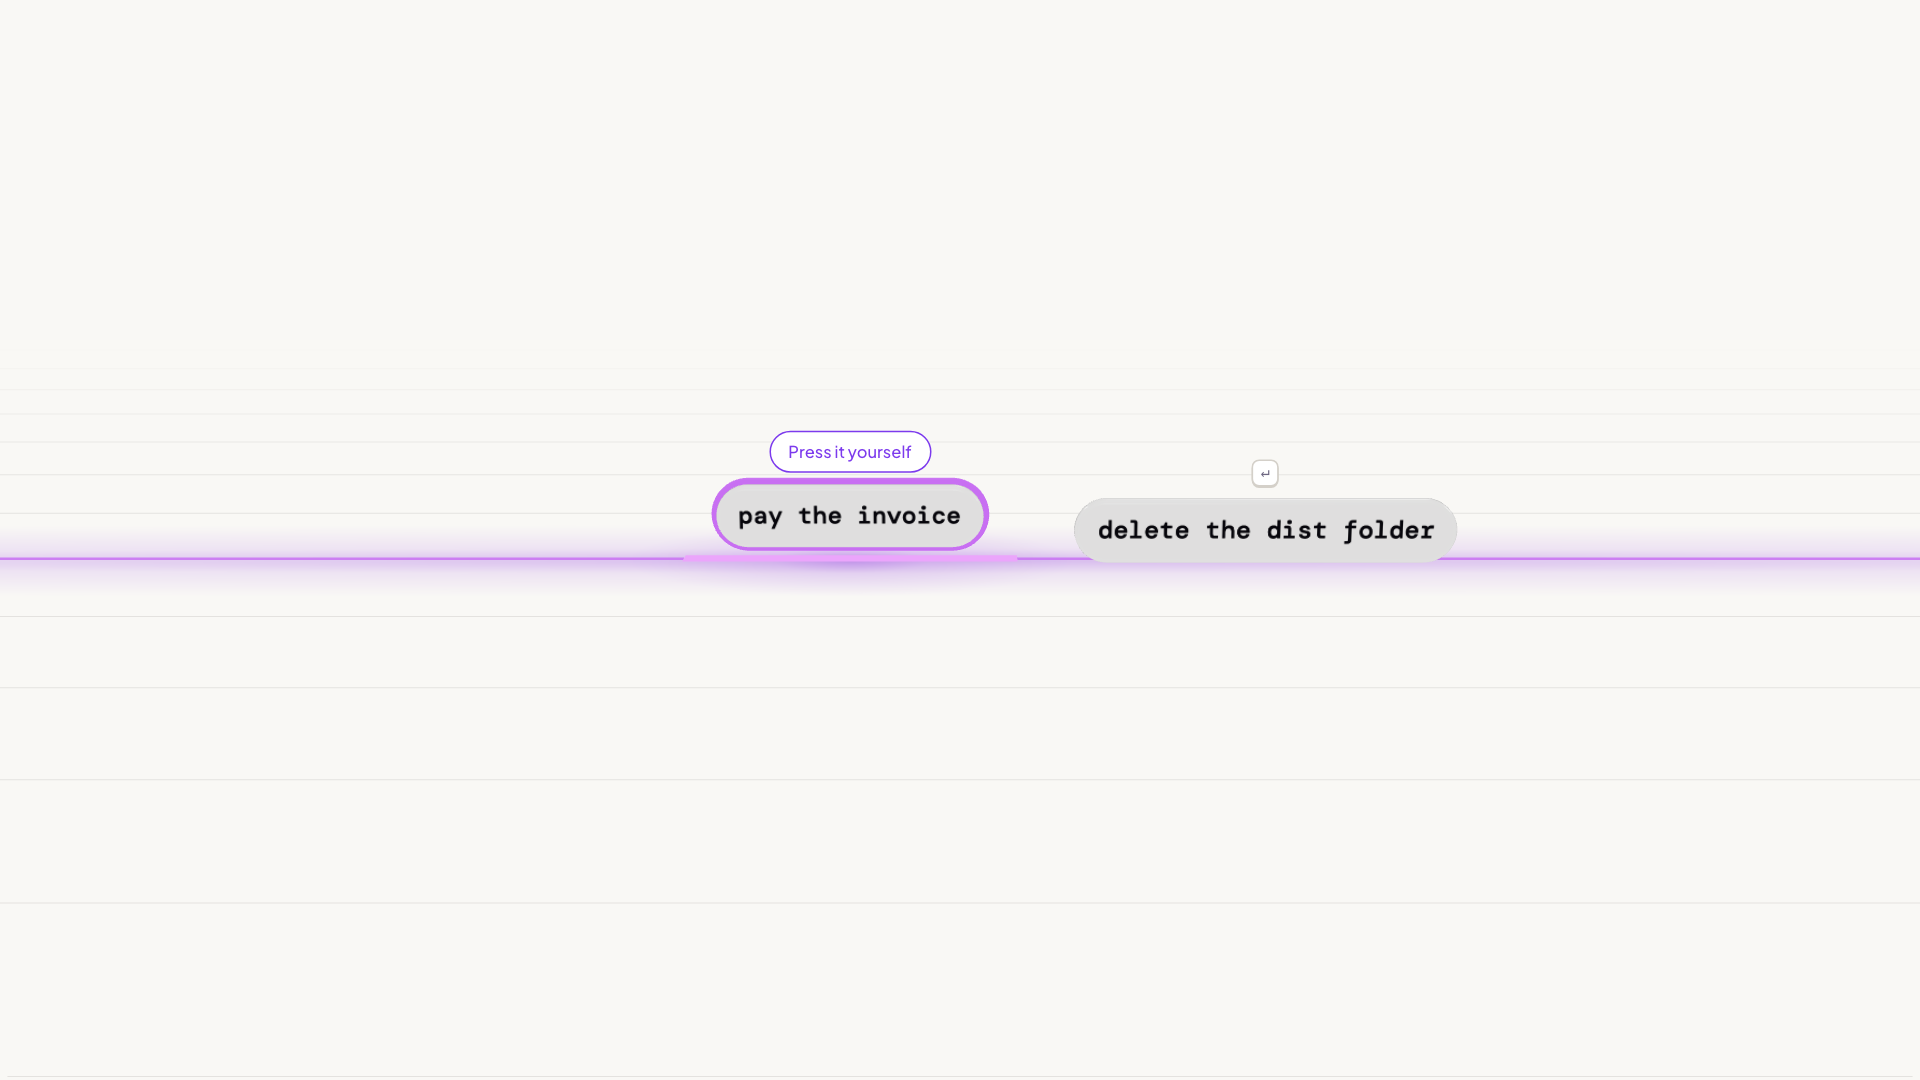
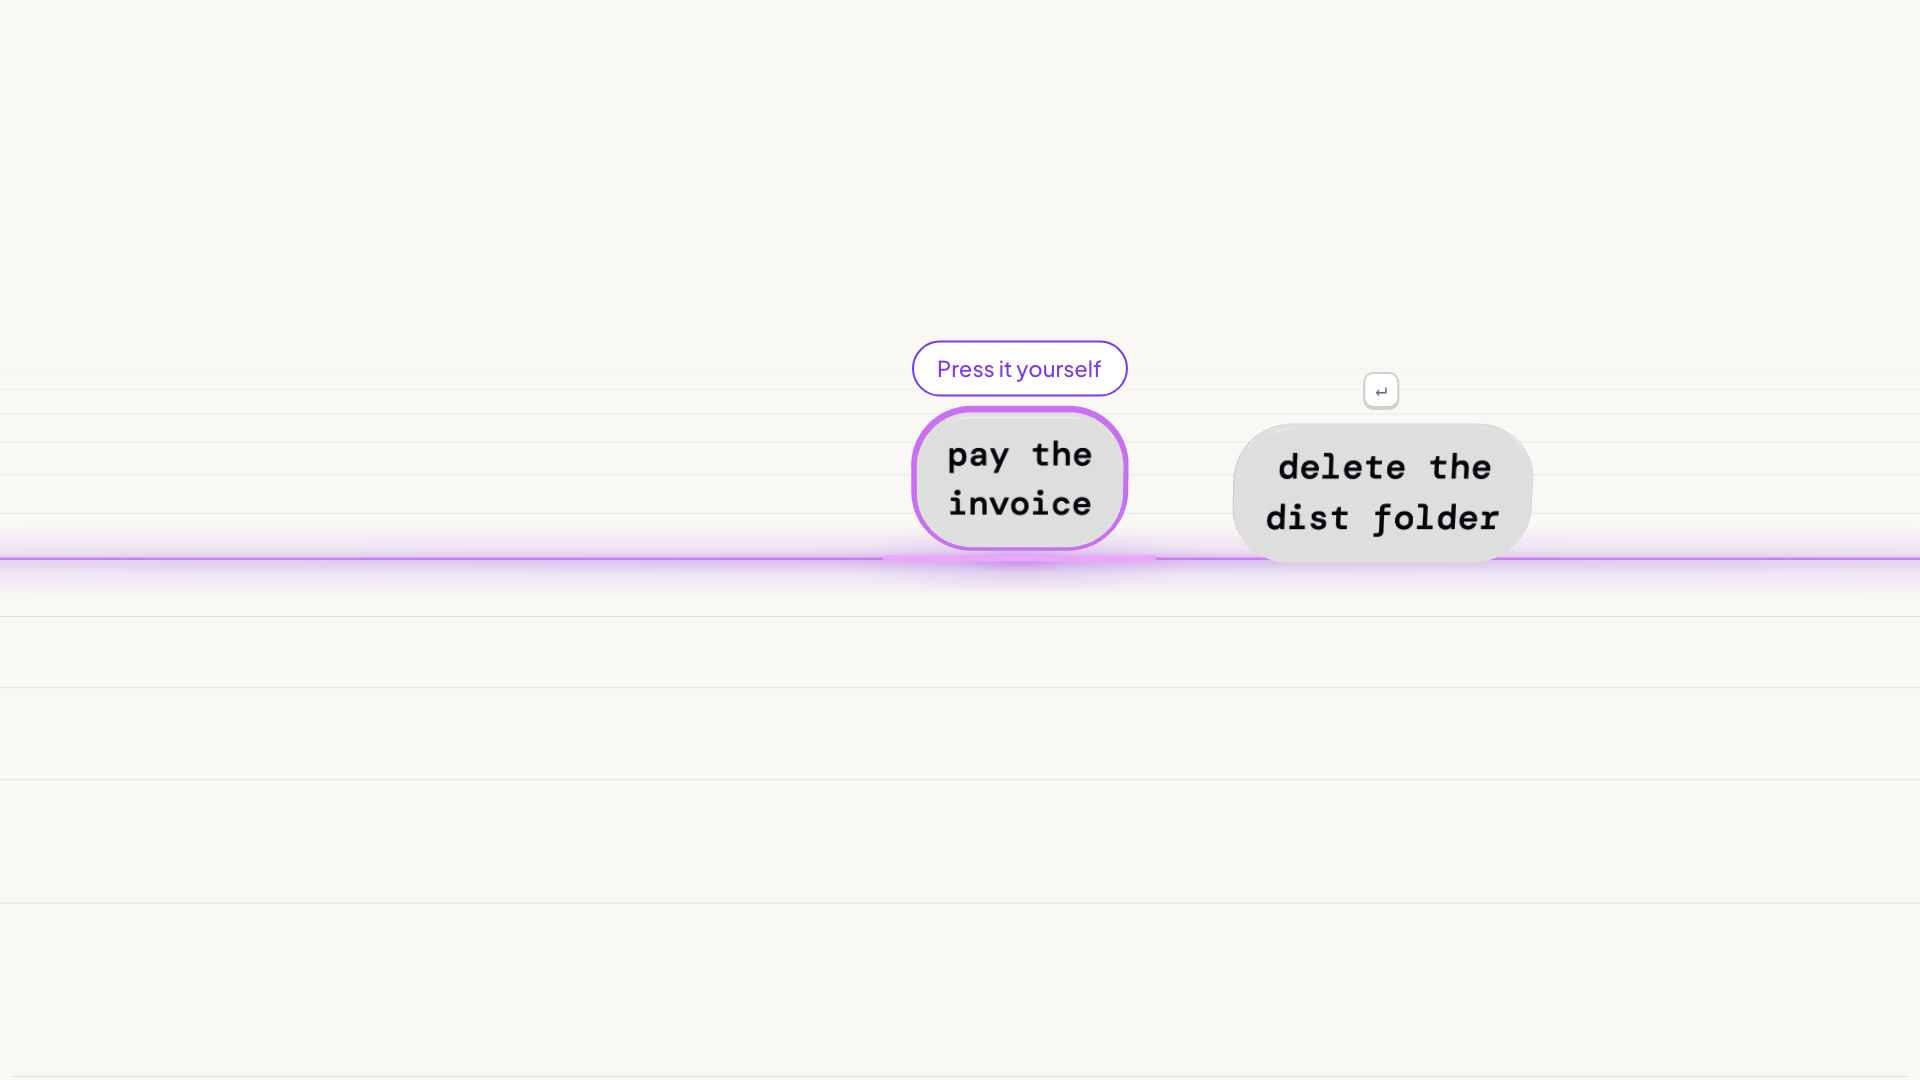
fix(stage): line posters re-rendered on the new lanes, the phone one at the 390 and 393 stage

Changed region(s): [[0.3438, 0.3361, 0.8125, 0.55]]

diff --git a/app/components/stage/poster.vue b/app/components/stage/poster.vue
@@ -11,7 +11,7 @@ type Size = { width: number; height: number };
 const RENDERED: Record<PosterName, Size & { mobile?: Size & { below: number } }> = {
   hero: { width: 1920, height: 1080, mobile: { width: 1920, height: 1080, below: 1024 } },
   lost: { width: 1920, height: 1080, mobile: { width: 1920, height: 1080, below: 1024 } },
-  line: { width: 1920, height: 1080, mobile: { width: 800, height: 1000, below: 768 } },
+  line: { width: 1920, height: 1080, mobile: { width: 720, height: 828, below: 768 } },
   fence: { width: 1920, height: 1080 },
 };
 
